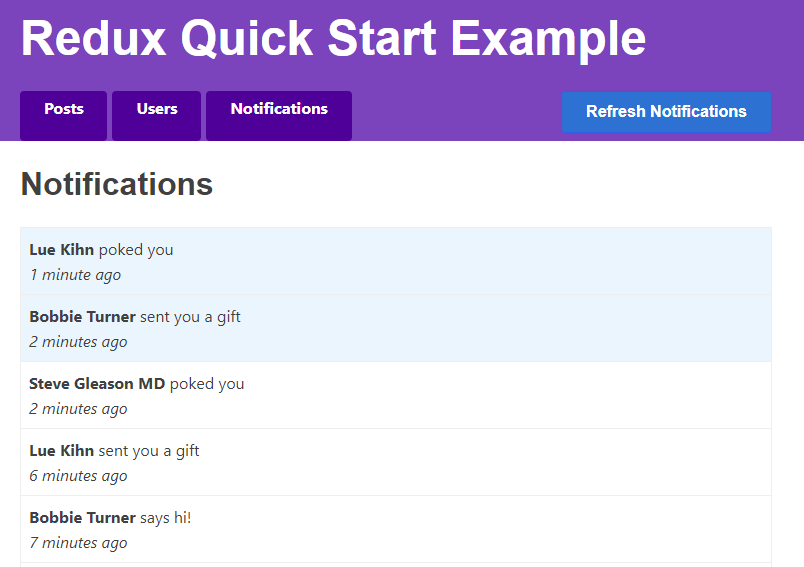
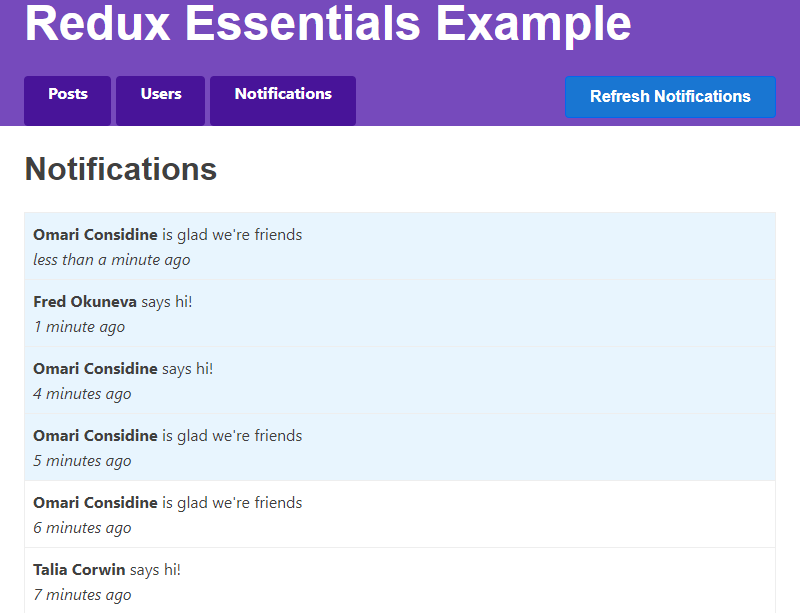
Fix example bugs with random seeds and sorted notifications

Changed region(s): [[0.0, 0.0, 1.0, 0.4497], [0.0312, 0.4797, 0.375, 0.8695], [0.0312, 0.8995, 0.25, 0.9894]]

diff --git a/docs/tutorials/essentials/part-6-performance-normalization.md b/docs/tutorials/essentials/part-6-performance-normalization.md
@@ -147,7 +147,7 @@ export const fetchNotifications = createAsyncThunk(
   'notifications/fetchNotifications',
   async (_, { getState }) => {
     const allNotifications = selectAllNotifications(getState())
-    const [latestNotification] = allNotifications.slice(-1)
+    const [latestNotification] = allNotifications
     const latestTimestamp = latestNotification ? latestNotification.date : ''
     const response = await client.get(
       `/fakeApi/notifications?since=${latestTimestamp}`
@@ -163,7 +163,7 @@ const notificationsSlice = createSlice({
   extraReducers: {
     [fetchNotifications.fulfilled]: (state, action) => {
       state.push(...action.payload)
-      // Sort with newest last
+      // Sort with newest first
       state.sort((a, b) => b.date.localeCompare(a.date))
     }
   }
@@ -202,7 +202,7 @@ For more details on these arguments and how to handle canceling thunks and reque
 
 :::
 
-In this case, we know that the list of notifications is in our Redux store state, and that the latest notification should be last in the array. We can destructure the `getState` function out of the `thunkAPI` object, call it to read the state value, and use the `selectAllNotifications` selector to give us just the array of notifications. Then, to get the last item in the array, we can use `allNotifications.slice(-1)` to create a new array with just the last item, and destructure that. (It's a bit tricky, but also nicer to read than doing `allNotifications[allNotifications.length - 1]`.)
+In this case, we know that the list of notifications is in our Redux store state, and that the latest notification should be first in the array. We can destructure the `getState` function out of the `thunkAPI` object, call it to read the state value, and use the `selectAllNotifications` selector to give us just the array of notifications. Since the array of notifications is sorted newest first, we can grab the latest one using array destructuring.
 
 ### Adding the Notifications List
 
@@ -329,7 +329,7 @@ const notificationsSlice = createSlice({
       })
       // highlight-end
       state.push(...action.payload)
-      // Sort with newest last
+      // Sort with newest first
       state.sort((a, b) => b.date.localeCompare(a.date))
     }
   }

diff --git a/docs/tutorials/essentials/part-5-async-logic.md b/docs/tutorials/essentials/part-5-async-logic.md
@@ -40,7 +40,7 @@ The project also includes a small HTTP API client object that exposes `client.ge
 
 We'll use the `client` object to make HTTP calls to our in-memory fake REST API for this section.
 
-Also, the mock server has been set up to reuse the same random seed each time the page is loaded, so that it will generate the same list of fake users and fake posts. If you want to reset that, delete the `'randomTimestampSeed'` value in your browser's Local Storage and reload the page, or you can turn that off by editing `src/api/server.js` and commenting out the `setRandom(rng)` call.
+Also, the mock server has been set up to reuse the same random seed each time the page is loaded, so that it will generate the same list of fake users and fake posts. If you want to reset that, delete the `'randomTimestampSeed'` value in your browser's Local Storage and reload the page, or you can turn that off by editing `src/api/server.js` and setting `useSeededRNG` to `false`.
 
 :::info
 
